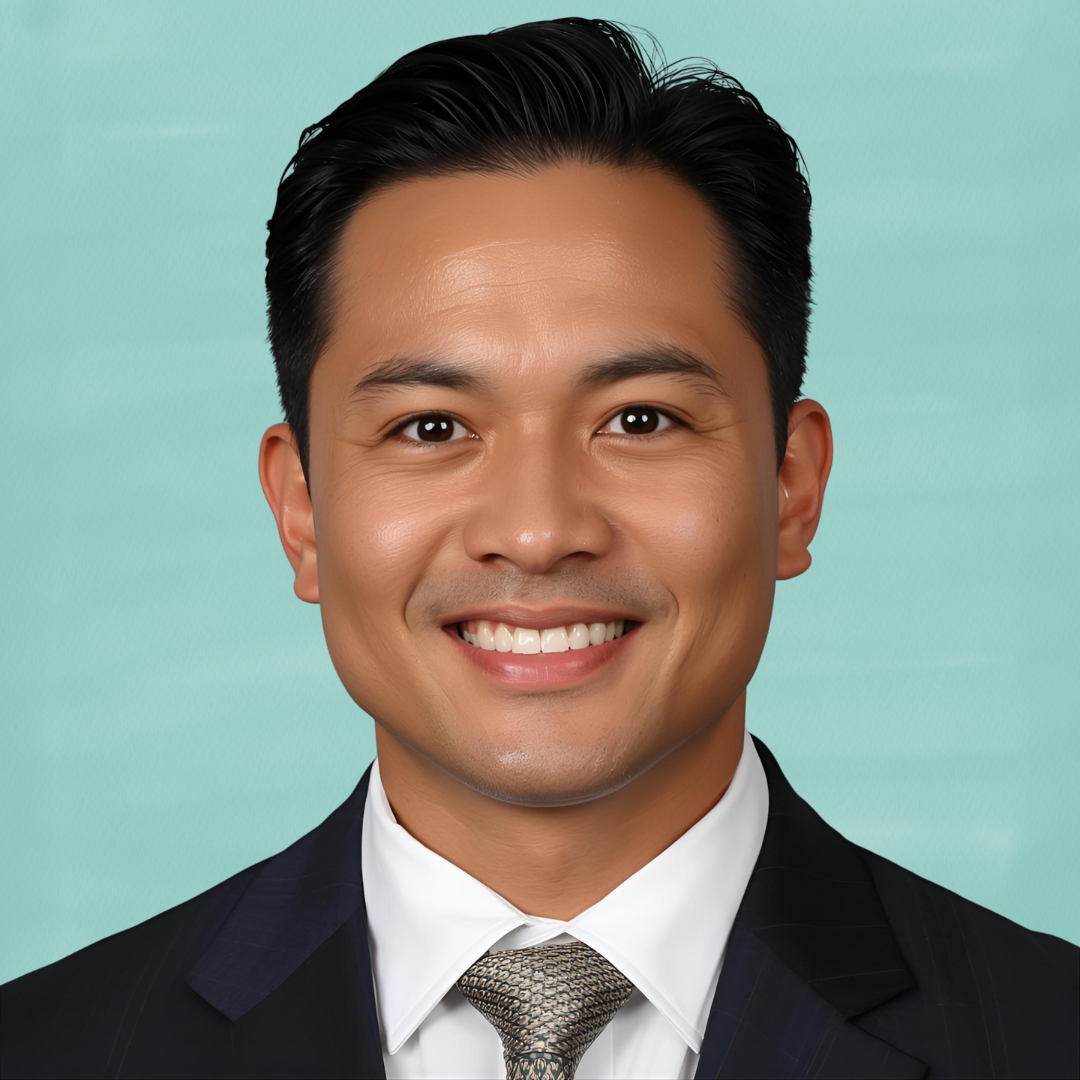
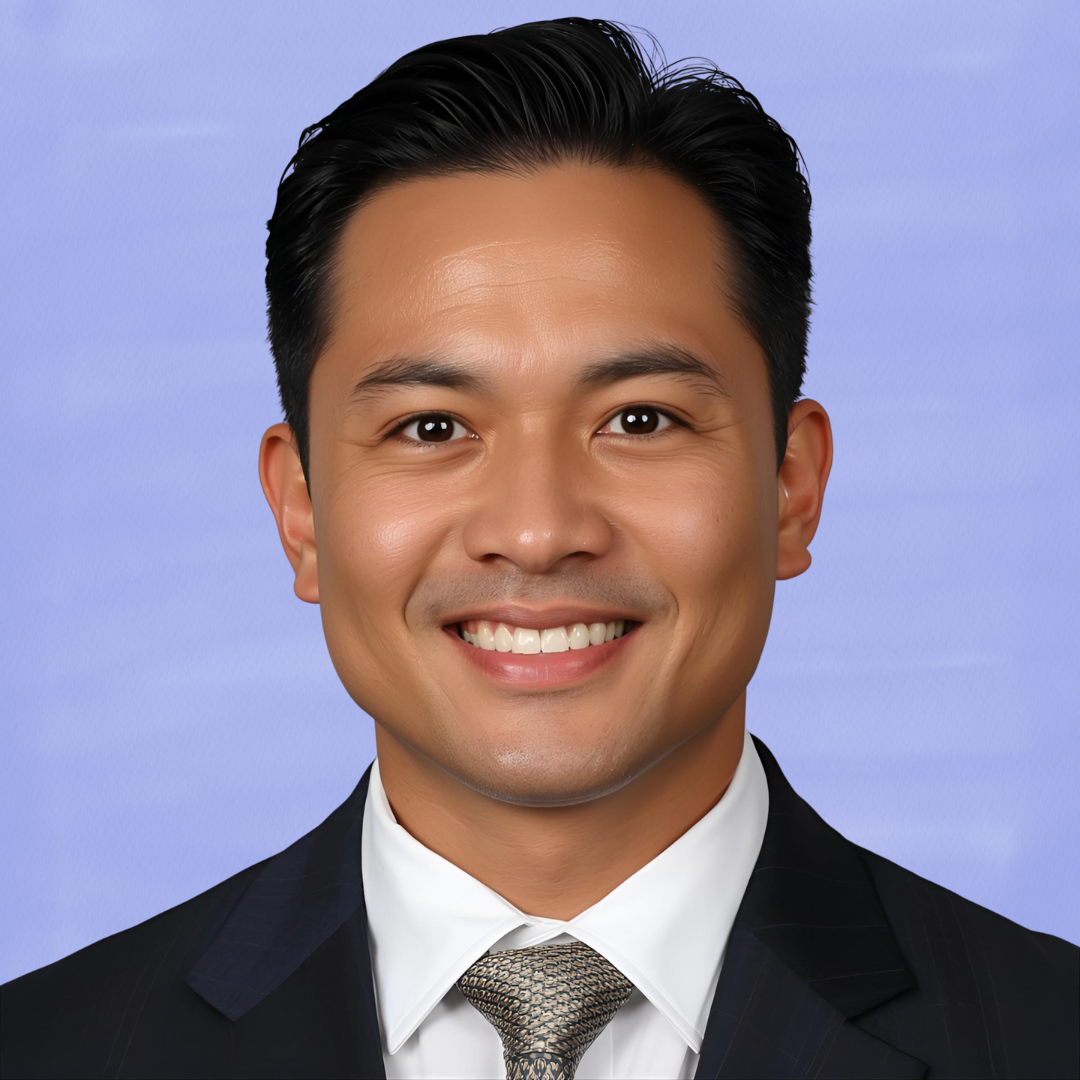
change to purple

diff --git a/talent-spectrum-app/src/app/page.tsx b/talent-spectrum-app/src/app/page.tsx
@@ -13,14 +13,14 @@ export default function HomePage() {
   };
 
   return (
-    <div className="bg-gradient-to-b from-emerald-50 to-background">
+    <div className="bg-gradient-to-b from-violet-50 to-background">
 
       {/* Main Content */}
       <div className="flex items-center justify-center pt-20 pb-8 px-4">
         <div className="max-w-6xl w-full text-center">
           {/* Hero Section */}
           <div className="mb-12">
-          <h1 className="text-4xl md:text-5xl mb-6 text-[#0A400C] font-bold">
+          <h1 className="text-4xl md:text-5xl mb-6 text-[#635bff] font-bold">
             Neurodiversity:
             <br></br>
             Innovation Beyond Inclusion.
@@ -36,11 +36,11 @@ export default function HomePage() {
                   value={searchQuery}
                   onChange={(e) => setSearchQuery(e.target.value)}
                   placeholder="Search jobs, inclusive employers, coaches & more..."
-                  className="w-full px-6 py-4 pr-12 text-lg border border-[#e8e6f0] rounded-xl focus:ring-2 focus:ring-[#6b8a7a] focus:border-[#6b8a7a] outline-none transition-all text-[#3a4043] bg-white/90 backdrop-blur-sm shadow-lg"
+                  className="w-full px-6 py-4 pr-12 text-lg border border-[#e8e6f0] rounded-xl focus:ring-2 focus:ring-[#635bff] focus:border-[#635bff] outline-none transition-all text-[#3a4043] bg-white/90 backdrop-blur-sm shadow-lg"
                 />
                 <button
                   type="submit"
-                  className="absolute right-2 top-1/2 transform -translate-y-1/2 bg-[#6b8a7a] hover:bg-[#5d7c6b] text-white p-2 rounded-lg transition-colors"
+                  className="absolute right-2 top-1/2 transform -translate-y-1/2 bg-[#635bff] hover:bg-[#827CFF] text-white p-2 rounded-lg transition-colors"
                 >
                   <svg
                     className="w-5 h-5"
@@ -68,7 +68,7 @@ export default function HomePage() {
                     <button
                       key={tag}
                       onClick={() => setSearchQuery(tag)}
-                      className="px-3 py-1 bg-white/60 border border-[#e8e6f0] rounded-full text-sm text-[#6b8a7a] hover:bg-[#6b8a7a] hover:text-white transition-colors"
+                      className="px-3 py-1 bg-white/60 border border-[#e8e6f0] rounded-full text-sm text-[#635bff] hover:bg-[#635bff] hover:text-white transition-colors"
                     >
                       {tag}
                     </button>
@@ -80,14 +80,14 @@ export default function HomePage() {
 
         {/* Employers and Jobs Highlights */}
         <div className="mb-12">
-          <h2 className="text-4xl md:text-4xl mb-6 text-[#0A400C] font-bold">
+          <h2 className="text-4xl md:text-4xl mb-6 text-[#635bff] font-bold">
             Inclusive Careers For You.
           </h2>
         </div>
 
           {/* Features */}
           <div className="grid md:grid-cols-4 gap-6 mt-16">
-            <div className="bg-white/60 backdrop-blur-sm rounded-xl p-6 border border-[#e8e6f0]">
+            <div className="bg-white/60 backdrop-blur-sm rounded-xl p-6 border border-[#635bff]">
               <div className="text-3xl mb-4 flex justify-center"><img src="/Google_Logo.png"
                   alt="Google Logo"
                   style={{ width: 'auto', height: '80px'}}
@@ -104,13 +104,13 @@ export default function HomePage() {
                 RM65k - 85k / annum
               </p>
               <Link href="/mock-interview" className="inline-block mt-3">
-                <button className="text-xs bg-[#6b8a7a] text-white px-3 py-1 rounded-full hover:bg-[#5d7c6b] transition-colors">
+                <button className="text-xs bg-[#635bff] text-white px-3 py-1 rounded-full hover:bg-[#827CFF] transition-colors">
                   Apply Now
                 </button>
               </Link>
             </div>
 
-            <div className="bg-white/60 backdrop-blur-sm rounded-xl p-6 border border-[#e8e6f0]">
+            <div className="bg-white/60 backdrop-blur-sm rounded-xl p-6 border border-[#635bff]">
               <div className="text-3xl mb-4 flex justify-center"><img src="/PwC_Logo.png"
                   alt="PwC Logo"
                   style={{ width: 'auto', height: '80px'}}
@@ -127,13 +127,13 @@ export default function HomePage() {
                 RM80k - 110k / annum
               </p>
               <Link href="/mock-interview" className="inline-block mt-3">
-                <button className="text-xs bg-[#6b8a7a] text-white px-3 py-1 rounded-full hover:bg-[#5d7c6b] transition-colors">
+                <button className="text-xs bg-[#635bff] text-white px-3 py-1 rounded-full hover:bg-[#827CFF] transition-colors">
                   Apply Now
                 </button>
               </Link>
             </div>
 
-            <div className="bg-white/60 backdrop-blur-sm rounded-xl p-6 border border-[#e8e6f0]">
+            <div className="bg-white/60 backdrop-blur-sm rounded-xl p-6 border border-[#635bff]">
               <div className="text-3xl mb-4 flex justify-center"><img src="/Gamuda_Logo.png"
                   alt="Gamuda Logo"
                   style={{ width: 'auto', height: '80px'}}
@@ -150,13 +150,13 @@ export default function HomePage() {
                 RM70k - 90k / annum
               </p>
               <Link href="/mock-interview" className="inline-block mt-3">
-                <button className="text-xs bg-[#6b8a7a] text-white px-3 py-1 rounded-full hover:bg-[#5d7c6b] transition-colors">
+                <button className="text-xs bg-[#635bff] text-white px-3 py-1 rounded-full hover:bg-[#827CFF] transition-colors">
                   Apply Now
                 </button>
               </Link>
             </div>
 
-            <div className="bg-white/60 backdrop-blur-sm rounded-xl p-6 border border-[#e8e6f0]">
+            <div className="bg-white/60 backdrop-blur-sm rounded-xl p-6 border border-[#635bff]">
               <div className="text-3xl mb-4 flex justify-center"><img src="/SLB_Logo.png"
                   alt="SLB Logo"
                   style={{ width: 'auto', height: '80px'}}
@@ -173,7 +173,7 @@ export default function HomePage() {
                 RM40k - 55k / annum
               </p>
               <Link href="/mock-interview" className="inline-block mt-3">
-                <button className="text-xs bg-[#6b8a7a] text-white px-3 py-1 rounded-full hover:bg-[#5d7c6b] transition-colors">
+                <button className="text-xs bg-[#635bff] text-white px-3 py-1 rounded-full hover:bg-[#827CFF] transition-colors">
                   Apply Now
                 </button>
               </Link>
@@ -187,19 +187,19 @@ export default function HomePage() {
                  
         {/* Job Coaches Section */}
         <div className="mb-12">
-          <h2 className="text-4xl md:text-4xl mb-6 text-[#0A400C] font-bold">
+          <h2 className="text-4xl md:text-4xl mb-6 text-[#635bff] font-bold">
             Job Coaches Matches To You.
           </h2>
         </div>
           <div className="grid md:grid-cols-3 gap-8">
-            <div className="text-center bg-white rounded-xl p-6 shadow-lg border border-[#e8e6f0]">
+            <div className="text-center bg-white rounded-xl p-6 shadow-lg border border-[#635bff]">
               <div className="w-24 h-24 bg-[#6b8a7a] rounded-full mx-auto mb-4 flex items-center justify-center overflow-hidden">
                 <img src="/LeeCheeTat.png"
                 alt="Profile photo of Lee Chee Tat"
                 className="w-full h-full object-cover"/>
                 </div>
               <h3 className="text-xl font-semibold text-[#3a4043] mb-2">Lee Chee Tat</h3>
-              <p className="text-[#6b8a7a] mb-3">Expert in <br></br>Autism Spectrum Condition</p>
+              <p className="text-[#635bff] mb-3">Expert in <br></br>Autism Spectrum Condition</p>
               <p className="text-sm text-[#3a4043] mb-3">
                 <em>Certified Professional Coach, Neurodiversity-Affirming Coach.</em>
               </p>
@@ -208,14 +208,14 @@ export default function HomePage() {
               </p>
             </div>
             
-            <div className="text-center bg-white rounded-xl p-6 shadow-lg border border-[#e8e6f0]">
+            <div className="text-center bg-white rounded-xl p-6 shadow-lg border border-[#635bff]">
               <div className="w-24 h-24 bg-[#6b8a7a] rounded-full mx-auto mb-4 flex items-center justify-center overflow-hidden">
                 <img src="/JohnStefan.png"
                 alt="Profile photo of John Stefan"
                 className="w-full h-full object-cover"/>
               </div>
               <h3 className="text-xl font-semibold text-[#3a4043] mb-2">John Stefan</h3>
-              <p className="text-[#6b8a7a] mb-3">Expert in <br></br>ADHD and Dyslexia</p>
+              <p className="text-[#635bff] mb-3">Expert in <br></br>ADHD and Dyslexia</p>
               <p className="text-sm text-[#3a4043] mb-3">
                 <em>ADHD Coach Practitioner, Certified Career Services Provider.</em>
               </p>
@@ -224,14 +224,14 @@ export default function HomePage() {
               </p>
             </div>
             
-            <div className="text-center bg-white rounded-xl p-6 shadow-lg border border-[#e8e6f0]">
+            <div className="text-center bg-white rounded-xl p-6 shadow-lg border border-[#635bff]">
               <div className="w-24 h-24 bg-[#6b8a7a] rounded-full mx-auto mb-4 flex items-center justify-center overflow-hidden">
                 <img src="/DrIsaacEbi.png"
                 alt="Profile photo of Dr. Isaac Ebi"
                 className="w-full h-full object-cover"/>
               </div>
               <h3 className="text-xl font-semibold text-[#3a4043] mb-2">Dr. Isaac Ebi</h3>
-              <p className="text-[#6b8a7a] mb-3">Expert in <br></br>Dyslexia and Dyspraxia</p>
+              <p className="text-[#635bff] mb-3">Expert in <br></br>Dyslexia and Dyspraxia</p>
               <p className="text-sm text-[#3a4043] mb-3">
                 <em>Ph.D. in Occupational Psychology, ICF Professional Certified Coach.</em>
               </p>

diff --git a/talent-spectrum-app/src/app/components/header.tsx b/talent-spectrum-app/src/app/components/header.tsx
@@ -17,7 +17,7 @@ export default function Header({ setCurrentPage }: HeaderProps) {
   const navItems = [
     { href: "/about", label: "About" },
     { href: "/jobListing", label: "Jobs" },
-    { href: "/JobCoach", label: "Job Coach" },
+    // { href: "/JobCoach", label: "Job Coach" },
     { href: "/JobSeeker", label: "Job Seeker" },
     // { href: "/contact", label: "Contact" },
     {href: "Employer", label: "Employer"}
@@ -26,7 +26,7 @@ export default function Header({ setCurrentPage }: HeaderProps) {
   const isActive = (path: string) => pathname === path;
 
   return (
-    <header className="w-full bg-[#f5faf7] backdrop-blur-md border-b border-[#e8e6f0] sticky top-0 z-100">
+    <header className="w-full bg-[#ecebff] backdrop-blur-md border-b border-[#e8e6f0] sticky top-0 z-100">
       <div className="max-w-7xl mx-auto px-4 sm:px-6 lg:px-8">
         <div className="flex justify-between items-center h-16">
           {/* Logo */}
@@ -49,7 +49,7 @@ export default function Header({ setCurrentPage }: HeaderProps) {
                 className={`transition-colors ${
                   isActive(item.href)
                     ? "text-[#6b8a7a] font-medium"
-                    : "text-[#3a4043] hover:text-[#6b8a7a]"
+                    : "text-[#3a4043] hover:text-[#827CFF]"
                 }`}
                 // onClick={() => setCurrentPage?.(item.page)}
               >
@@ -62,14 +62,14 @@ export default function Header({ setCurrentPage }: HeaderProps) {
           <div className="hidden md:flex items-center space-x-4">
             <Link
               href="/login"
-              className="text-[#6b8a7a] hover:text-[#5d7c6b] font-medium transition-colors"
+              className="text-[#635bff] hover:text-[#827CFF] font-medium transition-colors"
               onClick={() => setCurrentPage?.("login")}
             >
               Sign In
             </Link>
             <Link
               href="/role-selection"
-              className="bg-[#3b6b3d] hover:bg-[#508D4E] text-white px-4 py-2 rounded-lg font-medium transition-colors"
+              className="bg-[#635bff] hover:bg-[#827CFF] text-white px-4 py-2 rounded-lg font-medium transition-colors"
               onClick={() => setCurrentPage?.("role-selection")}
             >
               Get Started

diff --git a/talent-spectrum-app/src/app/components/footer.tsx b/talent-spectrum-app/src/app/components/footer.tsx
@@ -44,7 +44,7 @@ export default function Footer({ setCurrentPage }: FooterProps) {
   ];
 
   return (
-    <footer className="bg-card border-t-1 border-gray-400 border-border">
+    <footer className="bg-card border-t-1 border-violet-400 border-border">
       <div className="max-w-7xl mx-auto px-4 sm:px-6 lg:px-8 py-12">
         {/* Main Footer Content */}
         <div className="grid grid-cols-1 md:grid-cols-2 lg:grid-cols-4 gap-8">
